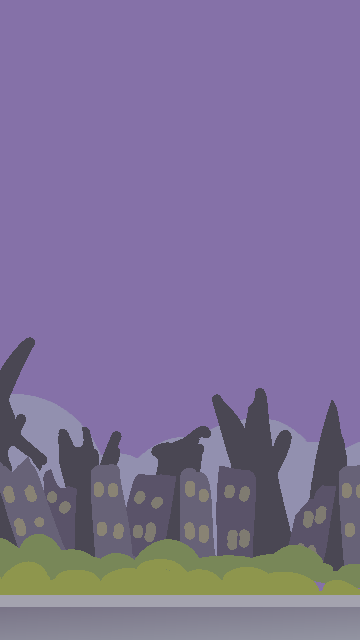
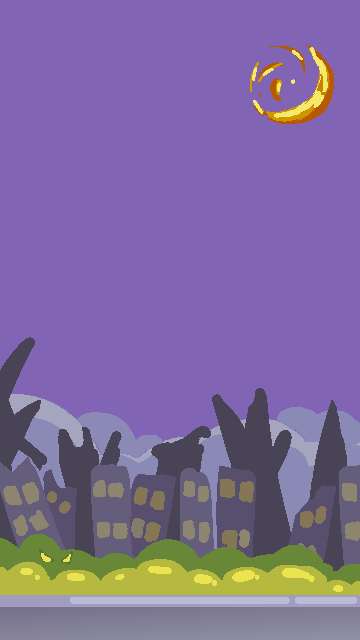
add moldura e fundo

diff --git a/estilo.css b/estilo.css
@@ -2,26 +2,48 @@ body {
     display: flex;
     justify-content: center;
     align-items: center;
+    height: 100vh;
+    margin: 0;
+
+    background-image: url('background.png');
+    background-size: cover;       /* cobre toda a tela */
+    background-position: center;  /* centraliza */
+    background-repeat: no-repeat; /* não repete */
 
     font-family: 'Segoe UI', Tahoma, Geneva, Verdana, sans-serif;
-    
     background-color: #554373;
-    height: 100%;
-    margin: 0%;
 
-    padding: 100px;
-    box-sizing: border-box;
 
 
 }
 
+#container {
+    position: relative;
+    width: min(90vw, 394px);
+    aspect-ratio: 394 / 699;
+}
+
 #board {
-    display: flex;
-    justify-content: center;
-    align-items: center;
+
+    width: 100%;
+    height:100%;
+    display: block;
+    border-radius: 12px;  
 
     background-color: rgb(177, 149, 255);
     background-image: url("./fabird.png");
 
-    border-radius: 12px;  
+    
+}
+
+#moldura {
+    position: absolute;
+    inset: 0;
+    width: 100%;
+    height: 100%;
+    object-fit: fill; /* ou contain se quiser preservar sem esticar */
+    pointer-events: none;
+    transform: scale(1.1);
+    transform-origin: center;
+
 }

diff --git a/board.js b/board.js
@@ -33,7 +33,7 @@ let bottomPipeImg;
 //fisisicas
 let velocityX = -2; // velocidade de moviemento dos obstaculos para a esquerda
 let velocityY = 0; //velocidade do pulo
-let gravity = 0.2;
+let gravity = 0.22;
 
 let gameOver = false;
 let placar=  0;
@@ -71,7 +71,11 @@ window.onload = function() {
     requestAnimationFrame(update);
     setInterval(placePipes, 1500); //todo 1.5 segundos
     document.addEventListener("keydown", movePlayer);
+    document.addEventListener("mousedown", movePlayer);
+
+    
 }
+
 
 
 //atualizar(step)
@@ -117,7 +121,7 @@ function update(){
     }
 
     //placar
-    context.fillStyle = "white";
+    context.fillStyle = "#ffb93c";
     context.font="35px Comic Sans MS";
     context.fillText(placar, 156, 50);
 
@@ -171,10 +175,10 @@ function placePipes( ) {
 }
 
 function movePlayer (e) {
-    if (e.code == "Space" || e.code == "ArrowUp" || e.code == "KeyW") {
+    if (e.code == "Space" || e.code == "ArrowUp" || e.code == "KeyW" || e.button == 0) {
         //pula o qujo
         velocityY = -6;
-
+        
         if (gameOver) {
             player.y = pY;
             pipeArray = [];

diff --git a/index.html b/index.html
@@ -8,7 +8,10 @@
         <script src="board.js"></script>
     </head>
     <body> 
+        <div id="container">
+            <canvas id="board"></canvas>
+            <img id="moldura" src="moldura.png" alt="moldura">
 
-        <canvas id="board"></canvas>
+        </div>
     </body>
 </html>
